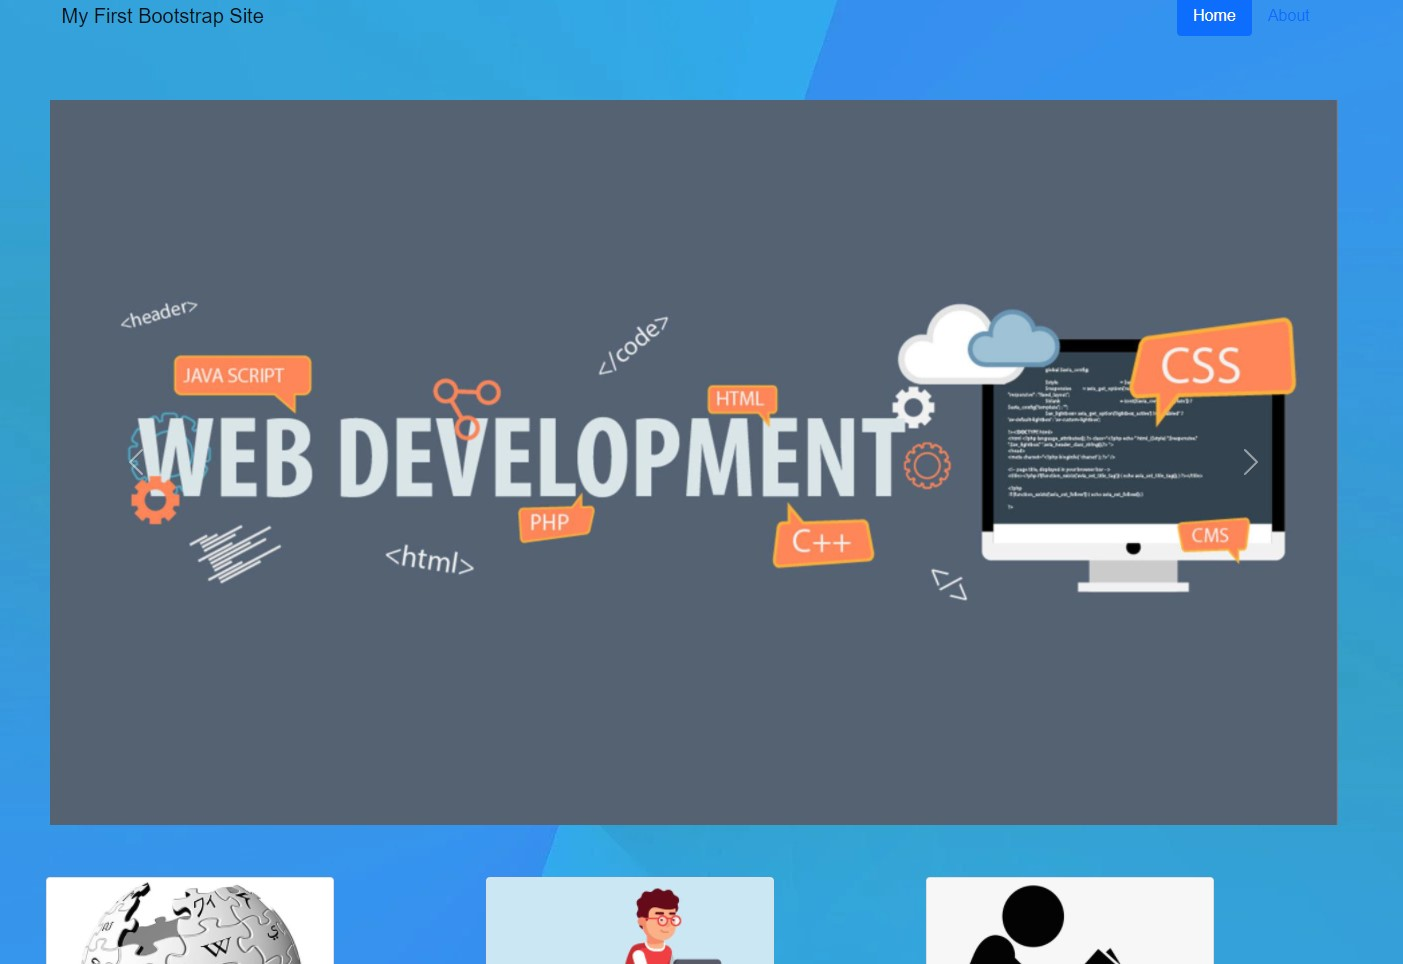
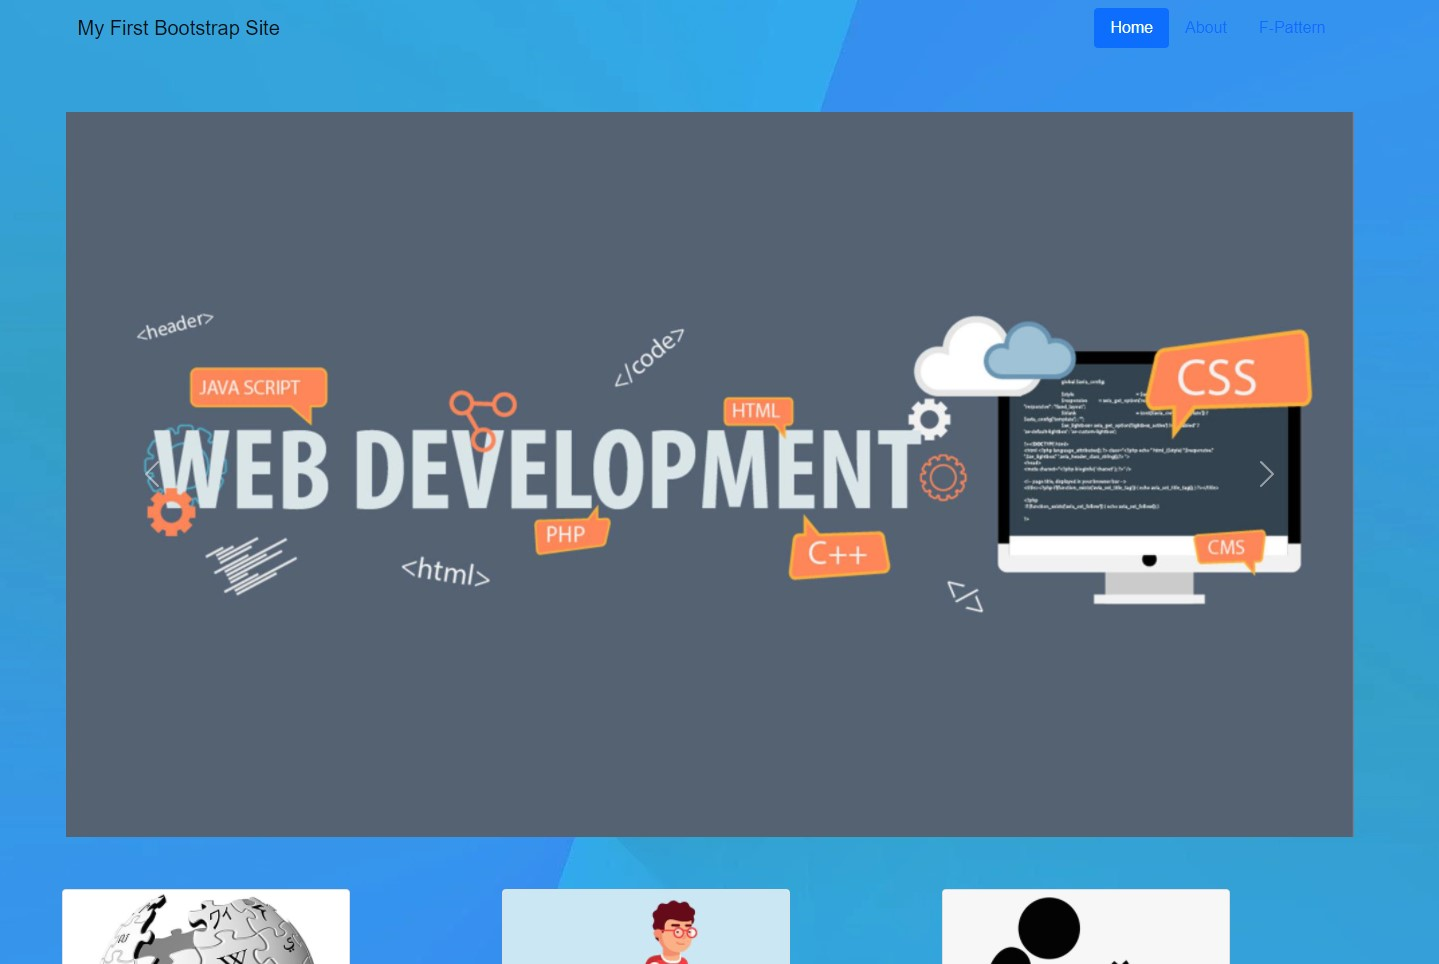
Added F-format web page

diff --git a/app/templates/fpattern.html b/app/templates/fpattern.html
@@ -1,0 +1,167 @@
+<!doctype html>
+<html lang="en">
+<head>
+    <!-- Required meta tags -->
+    <meta charset="utf-8">
+    <meta name="viewport" content="width=device-width, initial-scale=1">
+    <link href="https://cdn.jsdelivr.net/npm/bootstrap@5.1.3/dist/css/bootstrap.min.css" rel="stylesheet"
+          integrity="sha384-1BmE4kWBq78iYhFldvKuhfTAU6auU8tT94WrHftjDbrCEXSU1oBoqyl2QvZ6jIW3" crossorigin="anonymous">
+    {% block head %}
+        <link rel="stylesheet" href="{{ url_for('static', filename='css/style.css') }}"/>
+
+        <title>This is {{ name }} Website</title>
+    {% endblock %}
+
+</head>
+<body background="https://wallpapercave.com/wp/wp6784386.jpg">
+<div class="container">
+    <div class="row">
+        <header class="p-1 mb-5">
+            <nav class="navbar navbar-light">
+                <div class="container-fluid">
+                    <a class="navbar-brand" href="#">My First Bootstrap Site</a>
+                    <ul class="nav nav-pills">
+                        <li class="nav-item"><a href="/" class="nav-link" aria-current="page">Home</a></li>
+                        <li class="nav-item"><a href="/about" class="nav-link" aria-current="page">About</a></li>
+                        <li class="nav-item"><a href="/fpat" class="nav-link active">F-Pattern</a></li>
+                    </ul>
+                    <!-- <ul class="navbar-nav  nav-pills">
+                          <li class="nav-item">
+                              <a class="nav-link" aria-current="page" href="/">Home</a>
+                          </li>
+                          <li class="nav-item">
+                              <a class="nav-link active" aria-current="page" href="/about">About</a>
+                          </li>
+                      </ul>-->
+                </div>
+            </nav>
+        </header>
+    </div>
+    <div class="bluish row">
+        <h1>Introduction to Web Development</h1>
+    </div>
+
+    <div class="row">
+        <p>Web programming, also known as web development, is the creation of dynamic web applications. Examples of web
+            applications are social networking sites like Facebook or e-commerce sites like Amazon.
+        </p>
+        <p>
+            The good news is that learning web development is not that hard!
+        </p>
+        <p>
+            In fact, many argue it’s the best form of coding for beginners to learn. It’s easy to set up, you get
+            instant
+            results and there’s plenty of online training available.
+        </p>
+        <p>
+            A lot of people learn web coding because they want to create the next Facebook or find a job in the
+            industry.
+            But it’s also a good choice if you just want a general introduction to coding, since it’s super easy to get
+            started. No matter whether you’re looking for a career or just want to learn coding, learning how to develop
+            for
+            the web is for you. It’s one of the smartest decisions you will ever make!
+        </p>
+        <p>
+            <strong>Web Development Overview</strong>
+        </p>
+        <p>
+            There are two broad divisions of web development – front-end development (also called client-side
+            development)
+            and back-end development (also called server-side development).
+            Front-end development refers to constructing what a user sees when they load a web application – the
+            content,
+            design and how you interact with it. This is done with three codes – HTML, CSS and JavaScript.
+        </p>
+        <p>
+            HTML, short for <a href="https://www.codeconquest.com/tutorials/html/">Hyper Text Markup Language</a>, is a
+            special code for ‘marking up’ text in order to turn it into a web page. Every web page on the net is written
+            in
+            HTML, and it will form the backbone of any web application. CSS, short for <a
+                href="https://www.codeconquest.com/tutorials/css/">Cascading Style Sheets</a>, is a code for setting
+            style
+            rules for the appearance of web pages. CSS handles the cosmetic side of the web. Finally, <a
+                href="https://www.codeconquest.com/tutorials/javascript/">JavaScript</a> is a scripting language that’s
+            widely used to add functionality and interactivity to web pages.
+        </p>
+        <p>
+            Back-end development controls what goes on behind the scenes of a web application. A back-end often uses a
+            database to generate the front-end.
+        </p>
+        <p>
+            Here’s an example. Say you log into your Facebook account, and you are greeted with the latest updates in
+            your
+            News Feed. They’re not going to be the same updates that you saw yesterday.
+        </p>
+        <p>
+            How did the page change? Did a Facebook employee manually edit the page to update your news feed? Of course
+            not.
+            A script on the Facebook back-end would have received the updates and re-generated the front-end
+            accordingly.
+            Back-end scripts are written in many different coding languages and frameworks, such as…
+        </p>
+        <p>
+            PHP
+        </p>
+        <p>
+            Ruby on Rails
+        </p>
+        <p>
+            ASP.NET
+        </p>
+        <p>
+            Perl
+        </p>
+        <p>
+            Java
+        </p>
+        <p>
+            Node.js
+        </p>
+        <p>
+            Python
+        </p>
+        <p>
+            Without going into more detail, that’s really all there is to web development. So now, here are the best
+            ways to
+            start learning it.
+        </p>
+    </div>
+</div>
+
+<!-- Optional JavaScript; choose one of the two! -->
+
+<!-- Option 1: Bootstrap Bundle with Popper -->
+<script src="https://cdn.jsdelivr.net/npm/bootstrap@5.1.3/dist/js/bootstrap.bundle.min.js"
+        integrity="sha384-ka7Sk0Gln4gmtz2MlQnikT1wXgYsOg+OMhuP+IlRH9sENBO0LRn5q+8nbTov4+1p"
+        crossorigin="anonymous"></script>
+
+<!-- Option 2: Separate Popper and Bootstrap JS -->
+<!--
+<script src="https://cdn.jsdelivr.net/npm/@popperjs/core@2.10.2/dist/umd/popper.min.js" integrity="sha384-7+zCNj/IqJ95wo16oMtfsKbZ9ccEh31eOz1HGyDuCQ6wgnyJNSYdrPa03rtR1zdB" crossorigin="anonymous"></script>
+<script src="https://cdn.jsdelivr.net/npm/bootstrap@5.1.3/dist/js/bootstrap.min.js" integrity="sha384-QJHtvGhmr9XOIpI6YVutG+2QOK9T+ZnN4kzFN1RtK3zEFEIsxhlmWl5/YESvpZ13" crossorigin="anonymous"></script>
+-->
+<script src="{{ url_for('static', filename='js/scripts.js') }}"></script>
+<!--
+    <div id="main_header" class="bluish" >
+        <h1>Classwork 10th Feb-Webpage</h1>
+    </div>
+    <div id="main_contain" class="contain">
+        <div id="information" class="current">
+            <p>Student Name: {{ name }}</p>
+            <p>College: {{ school }}</p>
+            <p>Enrolled For: {{ edu }}</p>
+            <p>Specialization In: {{ Specs }}</p>
+        </div>
+        <div id="image" class="pic">
+            <img src="https://0.academia-photos.com/23631166/16350915/16737134/s200_sagar.alande.jpg" alt="Sagar Alande">
+        </div>
+    </div>
+    <div id="main_header" class="bluish" >
+        <h1>Classwork 17th Feb-Webpage</h1>
+    </div>
+    <div id="bootstrap-info" class="contain">
+        
+    </div>
+    -->
+</body>
+</html>

diff --git a/app/templates/index.html b/app/templates/index.html
@@ -20,9 +20,10 @@
             <nav class="navbar navbar-light">
                 <div class="container-fluid">
                     <a class="navbar-brand" href="#">My First Bootstrap Site</a>
-                   <ul class="nav nav-pills">
+                    <ul class="nav nav-pills">
                         <li class="nav-item"><a href="/" class="nav-link active" aria-current="page">Home</a></li>
                         <li class="nav-item"><a href="/about" class="nav-link">About</a></li>
+                        <li class="nav-item"><a href="/fpat" class="nav-link">F-Pattern</a></li>
                     </ul>
                     <!--  <ul class="navbar-nav  nav-pills">
                           <li class="nav-item">
@@ -40,13 +41,16 @@
         <div id="carouselExampleControls" class="carousel slide" data-bs-ride="carousel">
             <div class="carousel-inner">
                 <div class="carousel-item active">
-                    <img src="{{ url_for('static', filename='images/webdev.jpg') }}" class="d-block w-100 h-50" alt="...">
+                    <img src="{{ url_for('static', filename='images/webdev.jpg') }}" class="d-block w-100 h-50"
+                         alt="...">
                 </div>
                 <div class="carousel-item">
-                    <img src="{{ url_for('static', filename='images/image.jpg') }}" class="d-block w-100 h-50" alt="...">
+                    <img src="{{ url_for('static', filename='images/image.jpg') }}" class="d-block w-100 h-50"
+                         alt="...">
                 </div>
                 <div class="carousel-item">
-                    <img src="{{ url_for('static', filename='images/beawesome.jpg') }}" class="d-block w-100 h-50" alt="...">
+                    <img src="{{ url_for('static', filename='images/beawesome.jpg') }}" class="d-block w-100 h-50"
+                         alt="...">
                 </div>
             </div>
             <button class="carousel-control-prev" type="button" data-bs-target="#carouselExampleControls"
@@ -66,33 +70,39 @@
     <div class="row">
         <div class="col">
             <div class="card" style="width: 18rem;">
-                <img src="https://w0.peakpx.com/wallpaper/273/573/HD-wallpaper-wikipedia-media-widescreen-logo-awesome-black-wiki-useful.jpg" class="card-img-top" alt="...">
+                <img src="https://w0.peakpx.com/wallpaper/273/573/HD-wallpaper-wikipedia-media-widescreen-logo-awesome-black-wiki-useful.jpg"
+                     class="card-img-top" alt="...">
                 <div class="card-body">
                     <h5 class="card-title">Wikipedia</h5>
                     <p class="card-text">Overview about Web Systems Development</p>
-                    <a href="https://en.wikipedia.org/wiki/Web_development" class="btn btn-primary" target="_blank">Read More</a>
+                    <a href="https://en.wikipedia.org/wiki/Web_development" class="btn btn-primary" target="_blank">Read
+                        More</a>
                 </div>
             </div>
 
         </div>
         <div class="col">
             <div class="card" style="width: 18rem;">
-                <img src="https://woc.aises.org/sites/default/files/styles/image730x495/public/March2020-Student-Illo-BLOGPOST-FNL.jpg?itok=sfPCAQLh" class="card-img-top" alt="...">
+                <img src="https://woc.aises.org/sites/default/files/styles/image730x495/public/March2020-Student-Illo-BLOGPOST-FNL.jpg?itok=sfPCAQLh"
+                     class="card-img-top" alt="...">
                 <div class="card-body">
                     <h5 class="card-title">NJIT Offering</h5>
                     <p class="card-text">Details about NJIT's graduate certificate in WSD</p>
-                    <a href="https://www5.njit.edu/graduatestudies/degree-programs/graduatecertificates/web-systems-development-cert/" class="btn btn-primary" target="_blank">Visit NJIT</a>
+                    <a href="https://www5.njit.edu/graduatestudies/degree-programs/graduatecertificates/web-systems-development-cert/"
+                       class="btn btn-primary" target="_blank">Visit NJIT</a>
                 </div>
             </div>
 
         </div>
         <div class="col">
             <div class="card" style="width: 18rem;">
-                <img src="https://www.pngitem.com/pimgs/m/36-368629_a-person-studying-with-a-pile-of-books.png" class="card-img-top" alt="...">
+                <img src="https://www.pngitem.com/pimgs/m/36-368629_a-person-studying-with-a-pile-of-books.png"
+                     class="card-img-top" alt="...">
                 <div class="card-body">
                     <h5 class="card-title">Syllabus</h5>
                     <p class="card-text">Complete Syllabus document for CS601 Spring 2022</p>
-                    <a href="{{ url_for('static', filename='files/IS601 Syllabus - Spring 2022 002.docx') }}" class="btn btn-primary" download>Download</a>
+                    <a href="{{ url_for('static', filename='files/IS601 Syllabus - Spring 2022 002.docx') }}"
+                       class="btn btn-primary" download>Download</a>
                 </div>
             </div>
 

diff --git a/app/templates/about.html b/app/templates/about.html
@@ -23,6 +23,7 @@
                     <ul class="nav nav-pills">
                         <li class="nav-item"><a href="/" class="nav-link" aria-current="page">Home</a></li>
                         <li class="nav-item"><a href="/about" class="nav-link active" aria-current="page">About</a></li>
+                        <li class="nav-item"><a href="/fpat" class="nav-link">F-Pattern</a></li>
                     </ul>
                     <!-- <ul class="navbar-nav  nav-pills">
                           <li class="nav-item">

diff --git a/app/app.py b/app/app.py
@@ -1,9 +1,9 @@
 """A simple flask web app"""
 from flask import Flask, render_template
 
-
 from controllers.index_controller import IndexController
 from controllers.about_controller import AboutController
+from controllers.fpattern_controller import fpatternController
 from werkzeug.debug import DebuggedApplication
 
 app = Flask(__name__)
@@ -15,8 +15,12 @@ app.wsgi_app = DebuggedApplication(app.wsgi_app, True)
 def index_get():
     return IndexController.get()
 
+
 @app.route("/about", methods=['GET'])
 def about_get():
     return AboutController.get()
 
 
+@app.route("/fpat", methods=['GET'])
+def f_get():
+    return fpatternController.get()

diff --git a/app/controllers/fpattern_controller.py b/app/controllers/fpattern_controller.py
@@ -1,0 +1,13 @@
+from flask import render_template
+# don't change this import or it can't find the module controller
+from .controller import ControllerBase
+
+
+class fpatternController(ControllerBase):
+    @staticmethod
+    def get():
+        name = "Sagar Alande"
+        school = "New Jersey Institute of Technology"
+        edu = "Masters"
+        Specs = "Data Science"
+        return render_template('fpattern.html', name=name, school=school, edu=edu, Specs=Specs)

diff --git a/readme.md b/readme.md
@@ -10,4 +10,5 @@ docker compose up --build to get it to run and go to locahost to see the site.
 ![Running Program](screenshots/Z-format-Homepage-part-1.jpg)
 ![Running Program](screenshots/Z-format-Homepage-part-2.jpg)
 ![Running Program](screenshots/Z-format-about-me.jpg)
+![Running Program](screenshots/F-format-page.jpg)
 
